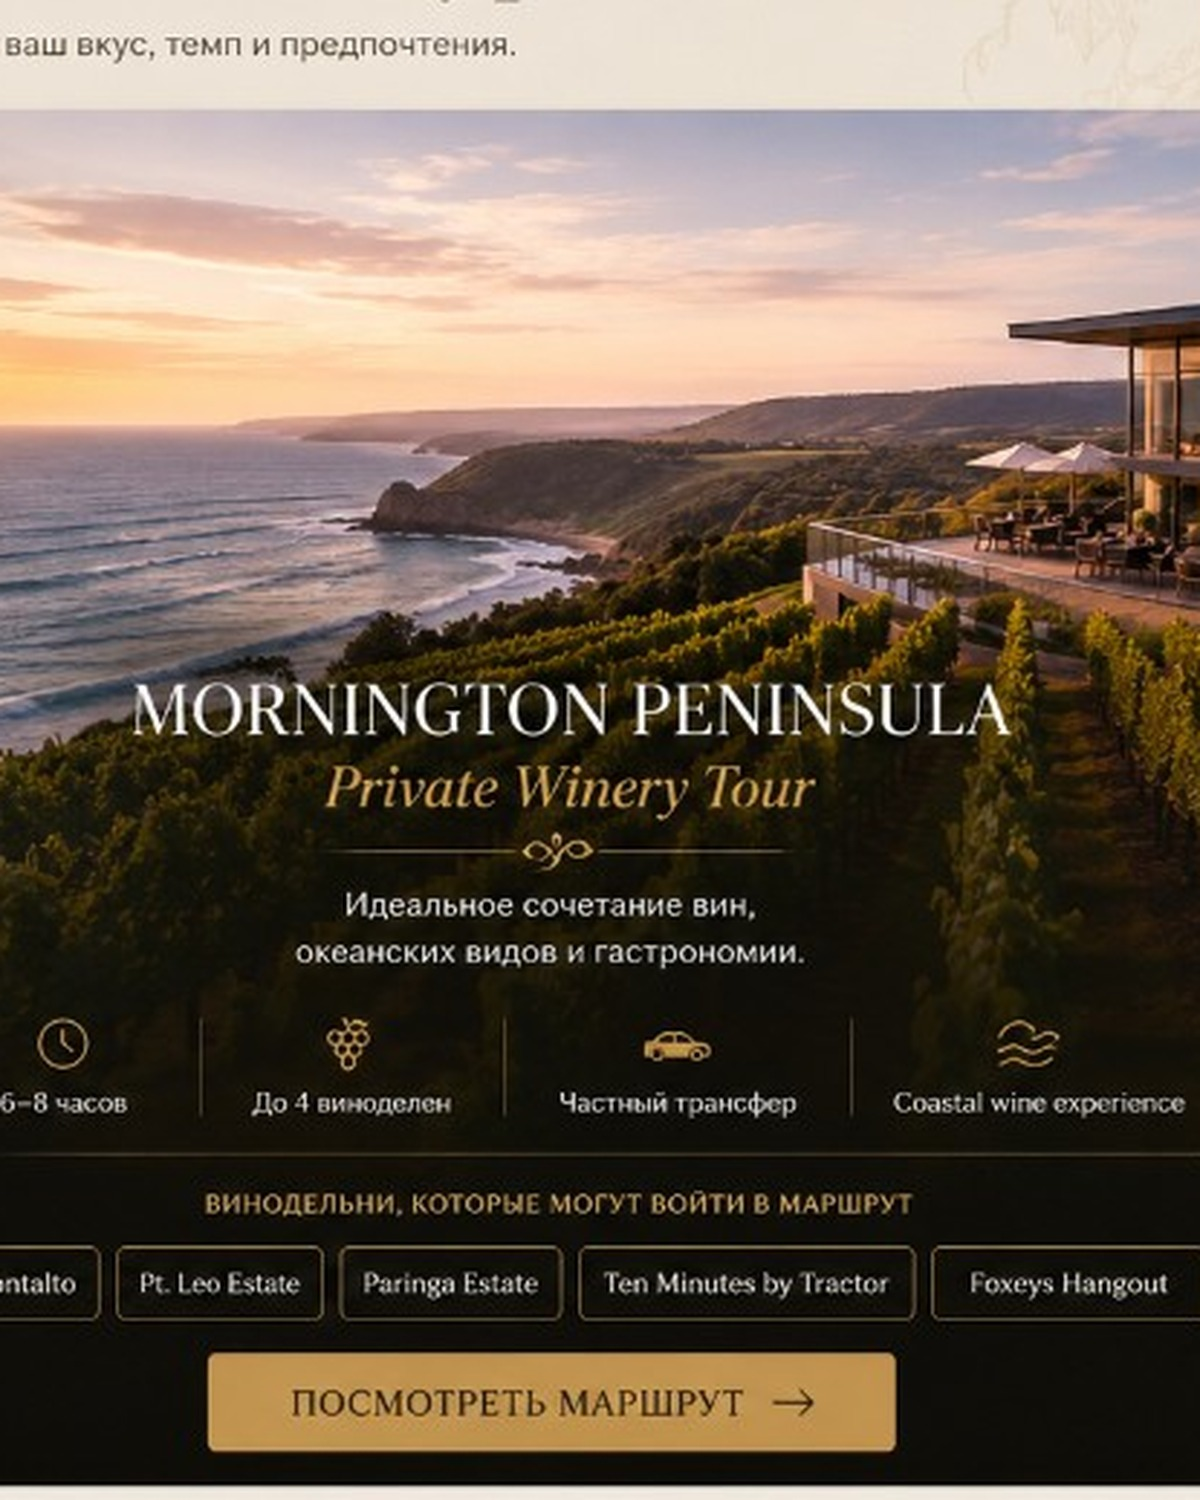
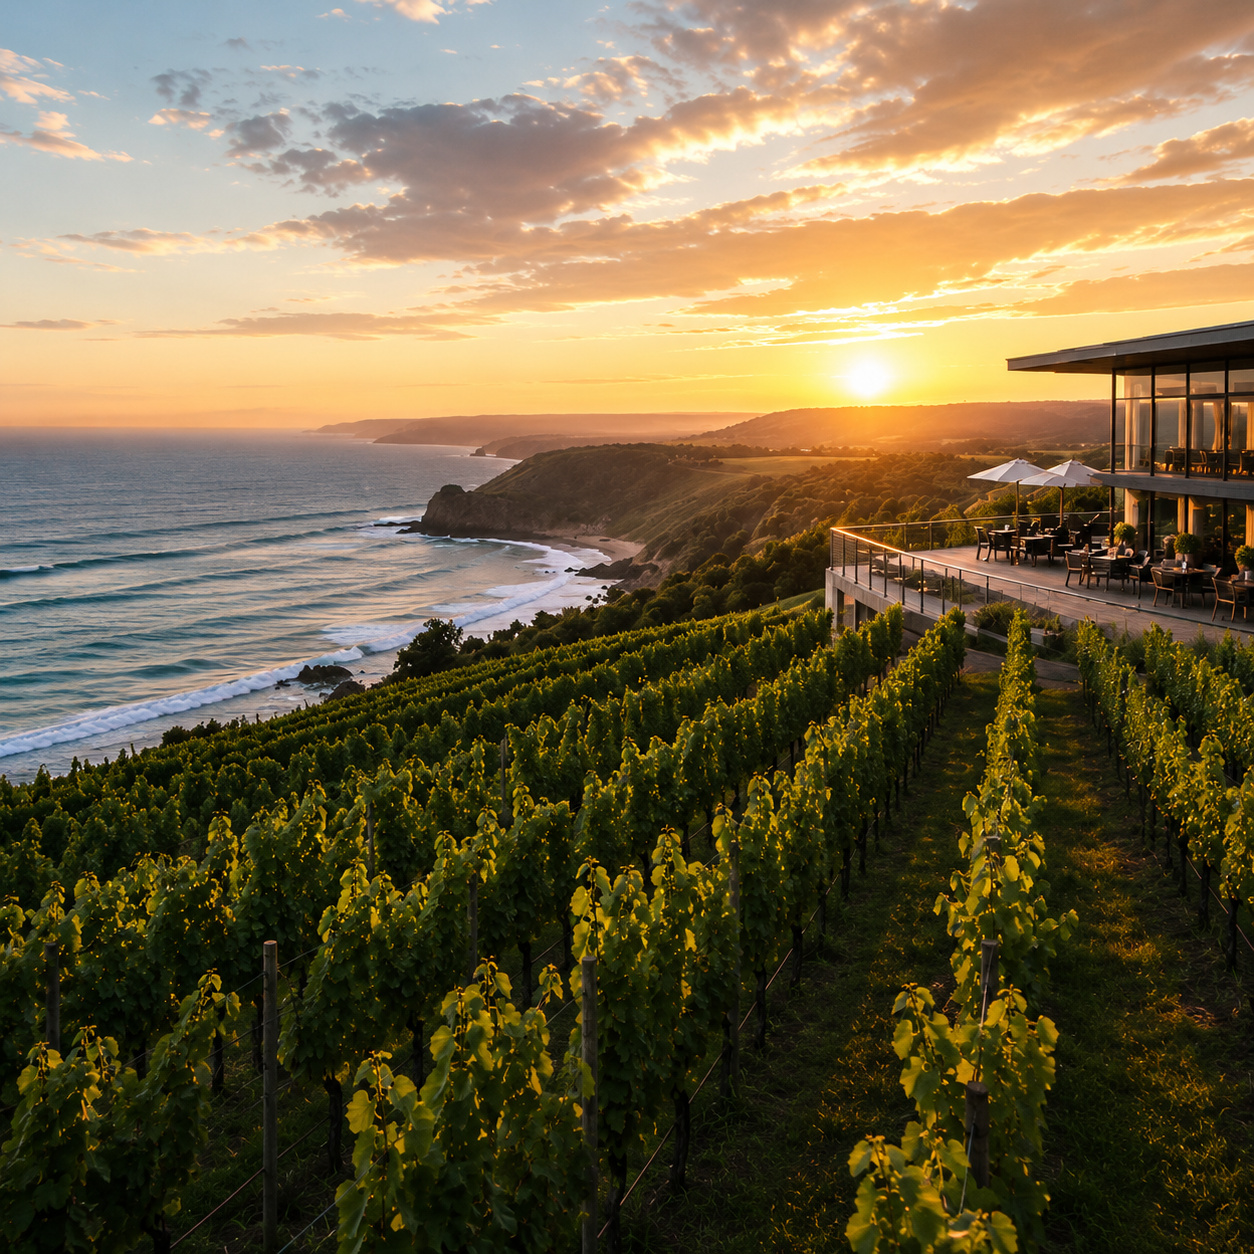
Update Mornington Peninsula tour and region backgrounds
Coastal vineyard sunset from user asset; cache-bust tour card image.

diff --git a/docs/wine-tours/tours.js b/docs/wine-tours/tours.js
@@ -37,8 +37,8 @@
       routeId: 'mornington-route',
       title: 'MORNINGTON PENINSULA',
       subtitle: 'Private Winery Tour',
-      image: 'img/tour-mornington.jpg',
-      imagePosition: '65% center',
+      image: 'img/tour-mornington.jpg?v=1',
+      imagePosition: 'center 40%',
       description: 'Идеальное сочетание вин, океанских видов, гастрономии и атмосферы побережья.',
       details: [
         { icon: 'clock', text: '6–8 часов' },